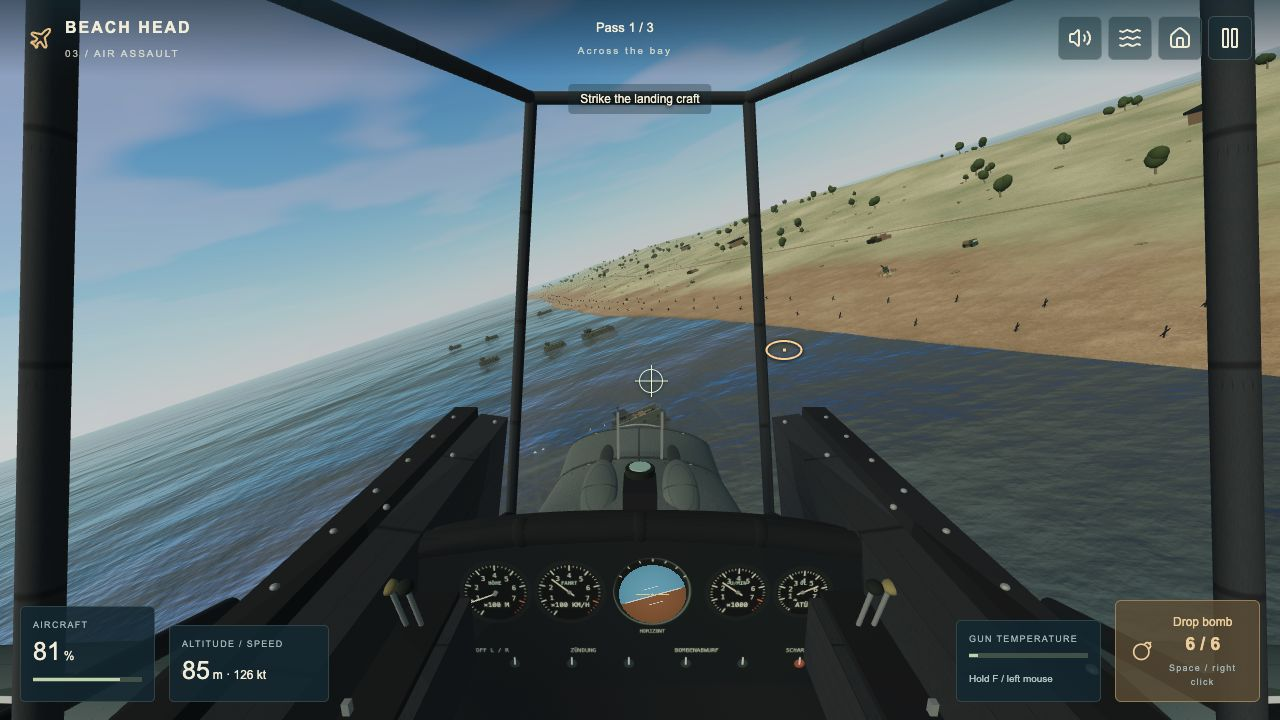
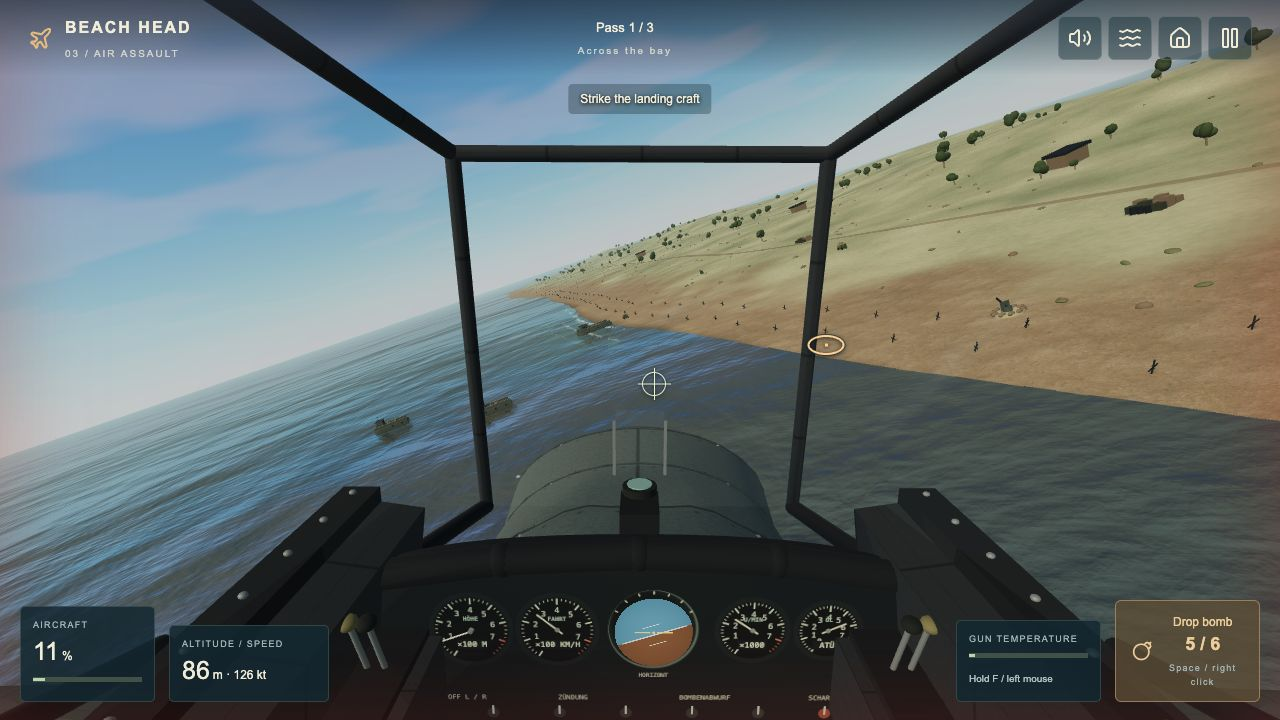
Correct engine cowling and cockpit proportions (#23)

diff --git a/lib/air/aircraft.ts b/lib/air/aircraft.ts
@@ -8,12 +8,12 @@ import { instrumentTexture, aircraftSkin } from './surfaces';
 /** Smooth elliptical sections give the cowling and tail a continuous silhouette. */
 function fuselageGeometry() {
   const sections = [
-    [-4.68, -0.1, 1.16, 1.16],
-    [-4.48, -0.1, 1.3, 1.22],
-    [-3.65, -0.1, 1.32, 1.25],
-    [-2.8, -0.15, 1.25, 1.25],
-    [-1.7, -0.25, 1.12, 1.16],
-    [0, -0.35, 0.93, 1.04],
+    [-4.68, -0.7, 1.85, 1.85],
+    [-4.48, -0.7, 2, 2],
+    [-3.65, -0.7, 2.05, 2.05],
+    [-2.8, -0.5, 1.85, 1.9],
+    [-1.7, -0.35, 1.65, 1.65],
+    [0, -0.35, 1.55, 1.04],
     [2, -0.26, 0.68, 0.79],
     [4, -0.14, 0.43, 0.54],
     [5.8, -0.02, 0.17, 0.29],
@@ -100,19 +100,19 @@ export function makeAirframe(a: AirArt) {
   // Short, broad radial-engine housing with a recessed cooling ring.
   const cooling = a.mesh(
     root,
-    a.geo(new THREE.RingGeometry(0.45, 1.15, 64)),
+    a.geo(new THREE.RingGeometry(0.58, 1.84, 64)),
     black,
-    [0, -0.1, -4.7],
+    [0, -0.7, -4.7],
     [1, 1, 1],
   );
   cooling.rotation.y = Math.PI;
   for (const z of [-4.65, -2.9]) {
     a.mesh(
       root,
-      a.geo(new THREE.TorusGeometry(1.18, 0.022, 6, 64)),
+      a.geo(new THREE.TorusGeometry(1.87, 0.022, 6, 64)),
       metal,
-      [0, -0.1, z],
-      [1.04, 1, 1],
+      [0, -0.7, z],
+      [1, 1, 1],
     );
   }
   for (const side of [-1, 1]) {
@@ -120,12 +120,12 @@ export function makeAirframe(a: AirArt) {
       const flap = a.block(
         root,
         paint,
-        [side * 1.24, -0.15, -3.15 + i * 0.13],
+        [side * 1.92, -0.3, -3.15 + i * 0.13],
         [0.045, 0.65, 0.095],
       );
       flap.rotation.z = side * 0.12;
     }
-    a.mesh(root, smooth, black, [side * 1.17, -0.47, -2.6], [0.09, 0.17, 0.38]);
+    a.mesh(root, smooth, black, [side * 1.78, -0.65, -2.6], [0.09, 0.17, 0.38]);
   }
   const wingPaint = a.mat('#ffffff', 0.68),
     skin = aircraftSkin();
@@ -173,18 +173,18 @@ export function makeAirframe(a: AirArt) {
     const wall = a.block(
       root,
       interior,
-      [side * 1.64, 1.75, 1.25],
-      [0.28, 1.8, 4.2],
+      [side * 1.64, 1.75, 2.0],
+      [0.28, 1.8, 2.7],
     );
     wall.rotation.z = side * 0.15;
-    a.block(root, trim, [side * 1.78, 2.64, 1.3], [0.23, 0.2, 4.25]);
-    a.block(root, metal, [side * 1.68, 2.66, 1.3], [0.028, 0.03, 4.1]);
+    a.block(root, trim, [side * 1.78, 2.64, 2.0], [0.23, 0.2, 2.8]);
+    a.block(root, metal, [side * 1.68, 2.66, 2.0], [0.028, 0.03, 2.75]);
     for (let n = 0; n < 8; n++)
       a.mesh(
         root,
         a.sphere,
         metal,
-        [side * 1.79, 2.75, -0.5 + n * 0.48],
+        [side * 1.79, 2.75, 0.7 + n * 0.34],
         [0.022, 0.016, 0.022],
       );
     // Side consoles, throttle quadrant, levers and wiring stay inside the tub.
@@ -259,13 +259,13 @@ export function makeAirframe(a: AirArt) {
     a.mesh(root, geometry, glazing, [0, 0, 0], [1, 1, 1]);
   }
   // Front armored pane and angled quarter windows connect to the canopy above the pilot.
-  const lower = 1.6,
-    upper = 5.65;
+  const lower = 1.95,
+    upper = 4.85;
   brace(
     [
       [-1.35, lower, -0.65],
-      [-0.98, upper, -0.9],
-      [0.98, upper, -0.9],
+      [-1.3, upper, -0.2],
+      [1.3, upper, -0.2],
       [1.35, lower, -0.65],
     ],
     0.055,
@@ -273,8 +273,8 @@ export function makeAirframe(a: AirArt) {
   windowPane([
     [-1.35, lower, -0.65],
     [1.35, lower, -0.65],
-    [0.98, upper, -0.9],
-    [-0.98, upper, -0.9],
+    [1.3, upper, -0.2],
+    [-1.3, upper, -0.2],
   ]);
   for (const side of [-1, 1]) {
     brace(
@@ -287,7 +287,7 @@ export function makeAirframe(a: AirArt) {
     );
     brace(
       [
-        [side * 0.98, upper, -0.9],
+        [side * 1.3, upper, -0.2],
         [side * 1.78, 5.42, 2.2],
         [side * 1.92, 2.65, 2.8],
       ],
@@ -297,16 +297,8 @@ export function makeAirframe(a: AirArt) {
       [side * 1.35, lower, -0.65],
       [side * 1.92, 2.65, 2.8],
       [side * 1.78, 5.42, 2.2],
-      [side * 0.98, upper, -0.9],
+      [side * 1.3, upper, -0.2],
     ]);
-    for (const z of [-0.45, 0.3, 1.1, 1.9])
-      a.mesh(
-        root,
-        a.sphere,
-        metal,
-        [side * (1.38 + (z + 0.45) * 0.17), 2.72, z],
-        [0.022, 0.02, 0.022],
-      );
   }
   brace(
     [
@@ -324,11 +316,11 @@ export function makeAirframe(a: AirArt) {
     hoodUV: number[] = [],
     hoodIndices: number[] = [];
   const hoodSections = [
-    [-4.65, 1.06, 1.16],
-    [-4.35, 1.14, 1.29],
-    [-2.8, 1.28, 1.25],
-    [-0.65, 1.55, 1.39],
-    [0.8, 1.7, 1.68],
+    [-4.65, 1.16, 1.85],
+    [-4.35, 1.31, 2.0],
+    [-2.8, 1.41, 1.85],
+    [-0.65, 1.95, 1.74],
+    [0.8, 2.2, 1.68],
   ];
   for (let row = 0; row < hoodSections.length; row++)
     for (let j = 0; j <= 24; j++) {
@@ -336,7 +328,13 @@ export function makeAirframe(a: AirArt) {
         angle = (j / 24) * Math.PI;
       hoodPositions.push(
         Math.cos(angle) * width,
-        top - (1 - Math.sin(angle)) * 0.48,
+        top -
+          (1 - Math.sin(angle)) * 1.3 +
+          0.065 *
+            Math.exp(
+              -(((Math.abs(Math.cos(angle) * width) - 0.55) / 0.24) ** 2) -
+                ((z + 0.65) / 1.0) ** 2,
+            ),
         z,
       );
       hoodUV.push(j / 24, row / 4);
@@ -363,7 +361,7 @@ export function makeAirframe(a: AirArt) {
       const angle = 0.2 + (i / 12) * (Math.PI - 0.4);
       return [
         Math.cos(angle) * width,
-        top - (1 - Math.sin(angle)) * 0.48 + 0.008,
+        top - (1 - Math.sin(angle)) * 1.3 + 0.008,
         z,
       ];
     });
@@ -374,22 +372,10 @@ export function makeAirframe(a: AirArt) {
         root,
         smooth,
         metal,
-        [x, top - 0.096 + 0.015, z + 0.08],
+        [x, top - 0.26 + 0.015, z + 0.08],
         [0.024, 0.01, 0.024],
       );
     }
-  }
-  // Paired breech fairings and shallow gun troughs identify the Fw 190-style upper cowl.
-  for (const side of [-1, 1]) {
-    const fairing = a.mesh(
-      root,
-      smooth,
-      antiGlare,
-      [side * 0.49, 1.46, -1.45],
-      [0.22, 0.09, 0.72],
-    );
-    fairing.rotation.x = 0.1;
-    a.mesh(root, smooth, seam, [side * 0.49, 1.32, -2.75], [0.1, 0.027, 0.42]);
   }
   // Broad, curved bulkhead with an opaque lower panel and padded glare shield.
   const panelShape = new THREE.Shape();
@@ -506,7 +492,7 @@ export function makeAirframe(a: AirArt) {
     [-0.15, 3.26, 0.6],
   ]);
   const prop = new THREE.Group();
-  prop.position.set(0, -0.1, -4.76);
+  prop.position.set(0, -0.7, -4.76);
   root.add(prop);
   const blur = a.mat('#41494a', 0.8);
   Object.assign(blur, {
@@ -517,7 +503,7 @@ export function makeAirframe(a: AirArt) {
   });
   a.mesh(
     prop,
-    a.geo(new THREE.RingGeometry(0.45, 2.05, 80)),
+    a.geo(new THREE.RingGeometry(0.58, 2.55, 80)),
     blur,
     [0, 0, 0],
     [1, 1, 1],
@@ -531,12 +517,12 @@ export function makeAirframe(a: AirArt) {
   });
   a.mesh(
     prop,
-    a.geo(new THREE.RingGeometry(1.98, 2.05, 80)),
+    a.geo(new THREE.RingGeometry(2.48, 2.55, 80)),
     tipBlur,
     [0, 0, -0.005],
     [1, 1, 1],
   );
-  a.mesh(root, smooth, black, [0, -0.1, -4.87], [0.48, 0.48, 0.52]);
+  a.mesh(root, smooth, black, [0, -0.7, -4.87], [0.6, 0.6, 0.64]);
   const gunNodes = GUNS.map((p, i) => {
     const n = new THREE.Object3D();
     n.name = `air-gun-${i}`;

diff --git a/lib/air/pilot-view.test.ts b/lib/air/pilot-view.test.ts
@@ -8,7 +8,7 @@ import { gunSolutions, predictImpact, projectilePoint } from './weapons';
 
 void test('cockpit stays around the pilot through heading, pitch and bank changes', () => {
   const f = createAircraft(),
-    camera = new THREE.PerspectiveCamera(72, 16 / 9, 0.12, 14000),
+    camera = new THREE.PerspectiveCamera(64, 16 / 9, 0.12, 14000),
     model = new THREE.Object3D();
   let reference: THREE.Vector3 | undefined;
   for (const [heading, pitch, bank] of [
@@ -22,7 +22,7 @@ void test('cockpit stays around the pilot through heading, pitch and bank change
     model.updateMatrixWorld(true);
     placePilotCamera(camera, f, false);
     camera.updateMatrixWorld(true);
-    const windscreenCorner = new THREE.Vector3(0.98, 5.65, -0.9)
+    const windscreenCorner = new THREE.Vector3(1.3, 4.85, -0.2)
       .applyMatrix4(model.matrixWorld)
       .applyMatrix4(camera.matrixWorldInverse);
     if (reference) assert.ok(reference.distanceTo(windscreenCorner) < 1e-8);
@@ -40,7 +40,7 @@ void test('cockpit leaves the gun aiming line unobstructed across the flight env
   const art = new AirArt(),
     plane = makeAirframe(art),
     f = createAircraft(),
-    camera = new THREE.PerspectiveCamera(72, 16 / 9, 0.12, 14000);
+    camera = new THREE.PerspectiveCamera(64, 16 / 9, 0.12, 14000);
   for (const altitude of [34, 85, 140])
     for (const pitch of [-0.16, 0, 0.16])
       for (const bank of [-0.5, 0, 0.5]) {
@@ -84,14 +84,14 @@ void test('pilot can see both shoulders of the engine cowling beyond the dashboa
   const art = new AirArt(),
     plane = makeAirframe(art),
     f = createAircraft(),
-    camera = new THREE.PerspectiveCamera(72, 16 / 9, 0.12, 14000);
+    camera = new THREE.PerspectiveCamera(64, 16 / 9, 0.12, 14000);
   plane.root.position.copy(f.position);
   plane.root.updateMatrixWorld(true);
   placePilotCamera(camera, f, false);
   camera.updateMatrixWorld(true);
   for (const side of [-1, 1]) {
     // Sample the exposed upper engine housing, leaving tolerance for its seam.
-    const cowling = new THREE.Vector3(side * 0.8, 1.14, -3.8).applyMatrix4(
+    const cowling = new THREE.Vector3(side * 1.1, 1.15, -3.8).applyMatrix4(
       plane.root.matrixWorld,
     );
     const distance = camera.position.distanceTo(cowling);

diff --git a/lib/air/scene.ts b/lib/air/scene.ts
@@ -149,7 +149,7 @@ export class AirScene {
     this.width = this.host.clientWidth;
     this.height = this.host.clientHeight;
     this.camera.aspect = this.width / Math.max(1, this.height);
-    this.camera.fov = this.camera.aspect < 1 ? 76 : 72;
+    this.camera.fov = this.camera.aspect < 1 ? 70 : 64;
     this.camera.updateProjectionMatrix();
     this.renderer.setSize(this.width, this.height);
     this.predictTime = -1;

diff --git a/docs/air-assets.md b/docs/air-assets.md
@@ -46,3 +46,7 @@ The rear hood and dashboard brow are lower, exposing the engine cowling beyond t
 Stage 3 now explicitly casts the player as a German pilot attacking an Allied landing. The aircraft is inspired by the radial-engined Fw 190 ground-attack family: a shorter, broader cowling, cooling ring and flaps, paired upper-cowl breech fairings, a closer reflector sight, gray-green splinter camouflage and straight Balkenkreuz wing markings. American stars and invasion stripes are removed. Instrument labels and decorative units use German/metric conventions. The nose and propeller share a revised engine axis; the existing physical wing-gun and bomb-rack positions are retained.
 
 Reference: [Smithsonian National Air and Space Museum — Fw 190 F-8/R1](https://airandspace.si.edu/collection-objects/focke-wulf-fw-190-f-8r1/nasm_A19600318000), documenting the radial-engined F-8 ground-attack variant. This is an original, Fw 190-inspired arcade model and fictional encounter, not a claim of exact historical dimensions, loadout, cockpit instrumentation or a reenactment of a particular D-Day sortie. All markings and geometry are original procedural art; no museum photographs were incorporated.
+
+## Cockpit and engine proportions
+
+The radial housing is approximately 55% wider, with its cooling ring, spinner and propeller resized around the same lowered engine axis. A fuller curved upper cowl joins the instrument area; breech contours are molded into that surface rather than overlapping oval meshes. Cockpit sidewalls/rails are shorter, their obsolete forward fasteners are removed, and the front windshield is wider and lower. The view uses 64° vertical FOV in landscape and 70° in portrait to reduce the distant-nose impression. Physical gun and bomb hardpoints remain unchanged.

diff --git a/docs/stage-3-validation.md b/docs/stage-3-validation.md
@@ -53,3 +53,7 @@ All **104 tests**, TypeScript, scoped authored-source lint, whitespace checks an
 ## German aircraft and cowling revision — 2026-09-30
 
 All **104 tests**, TypeScript, scoped lint and the production Pages export pass. The cowling visibility samples follow the revised engine housing; all 27 gun-aim clearance poses and modeled weapon-hardpoint alignment checks pass. Browser checks verified the German/Allied mission briefing, broad engine cowling, closer sight, banking and firing. Mobile landscape bomb release changed inventory from six to five; portrait and landscape retained visible reticles and nose geometry. No console errors were reported. The README image was refreshed. These are desktop-host viewport checks, not physical-device performance measurements.
+
+## Proportion correction — 2026-09-30
+
+All **104 tests**, TypeScript, scoped lint, whitespace checks and the Pages production export pass. Camera/visibility fixtures now use the revised windshield, cowling shoulders and landscape lens; the gun sightline remains clear in all 27 tested flight poses. Browser checks show a substantially broader nose, integrated upper-cowl details and shorter side rails. Desktop banking, firing and bomb release worked; portrait (390 × 844) and landscape (844 × 390) framing retained visible forward scenery and controls. No console errors were reported. These remain desktop-host viewport checks, not physical-phone validation.
